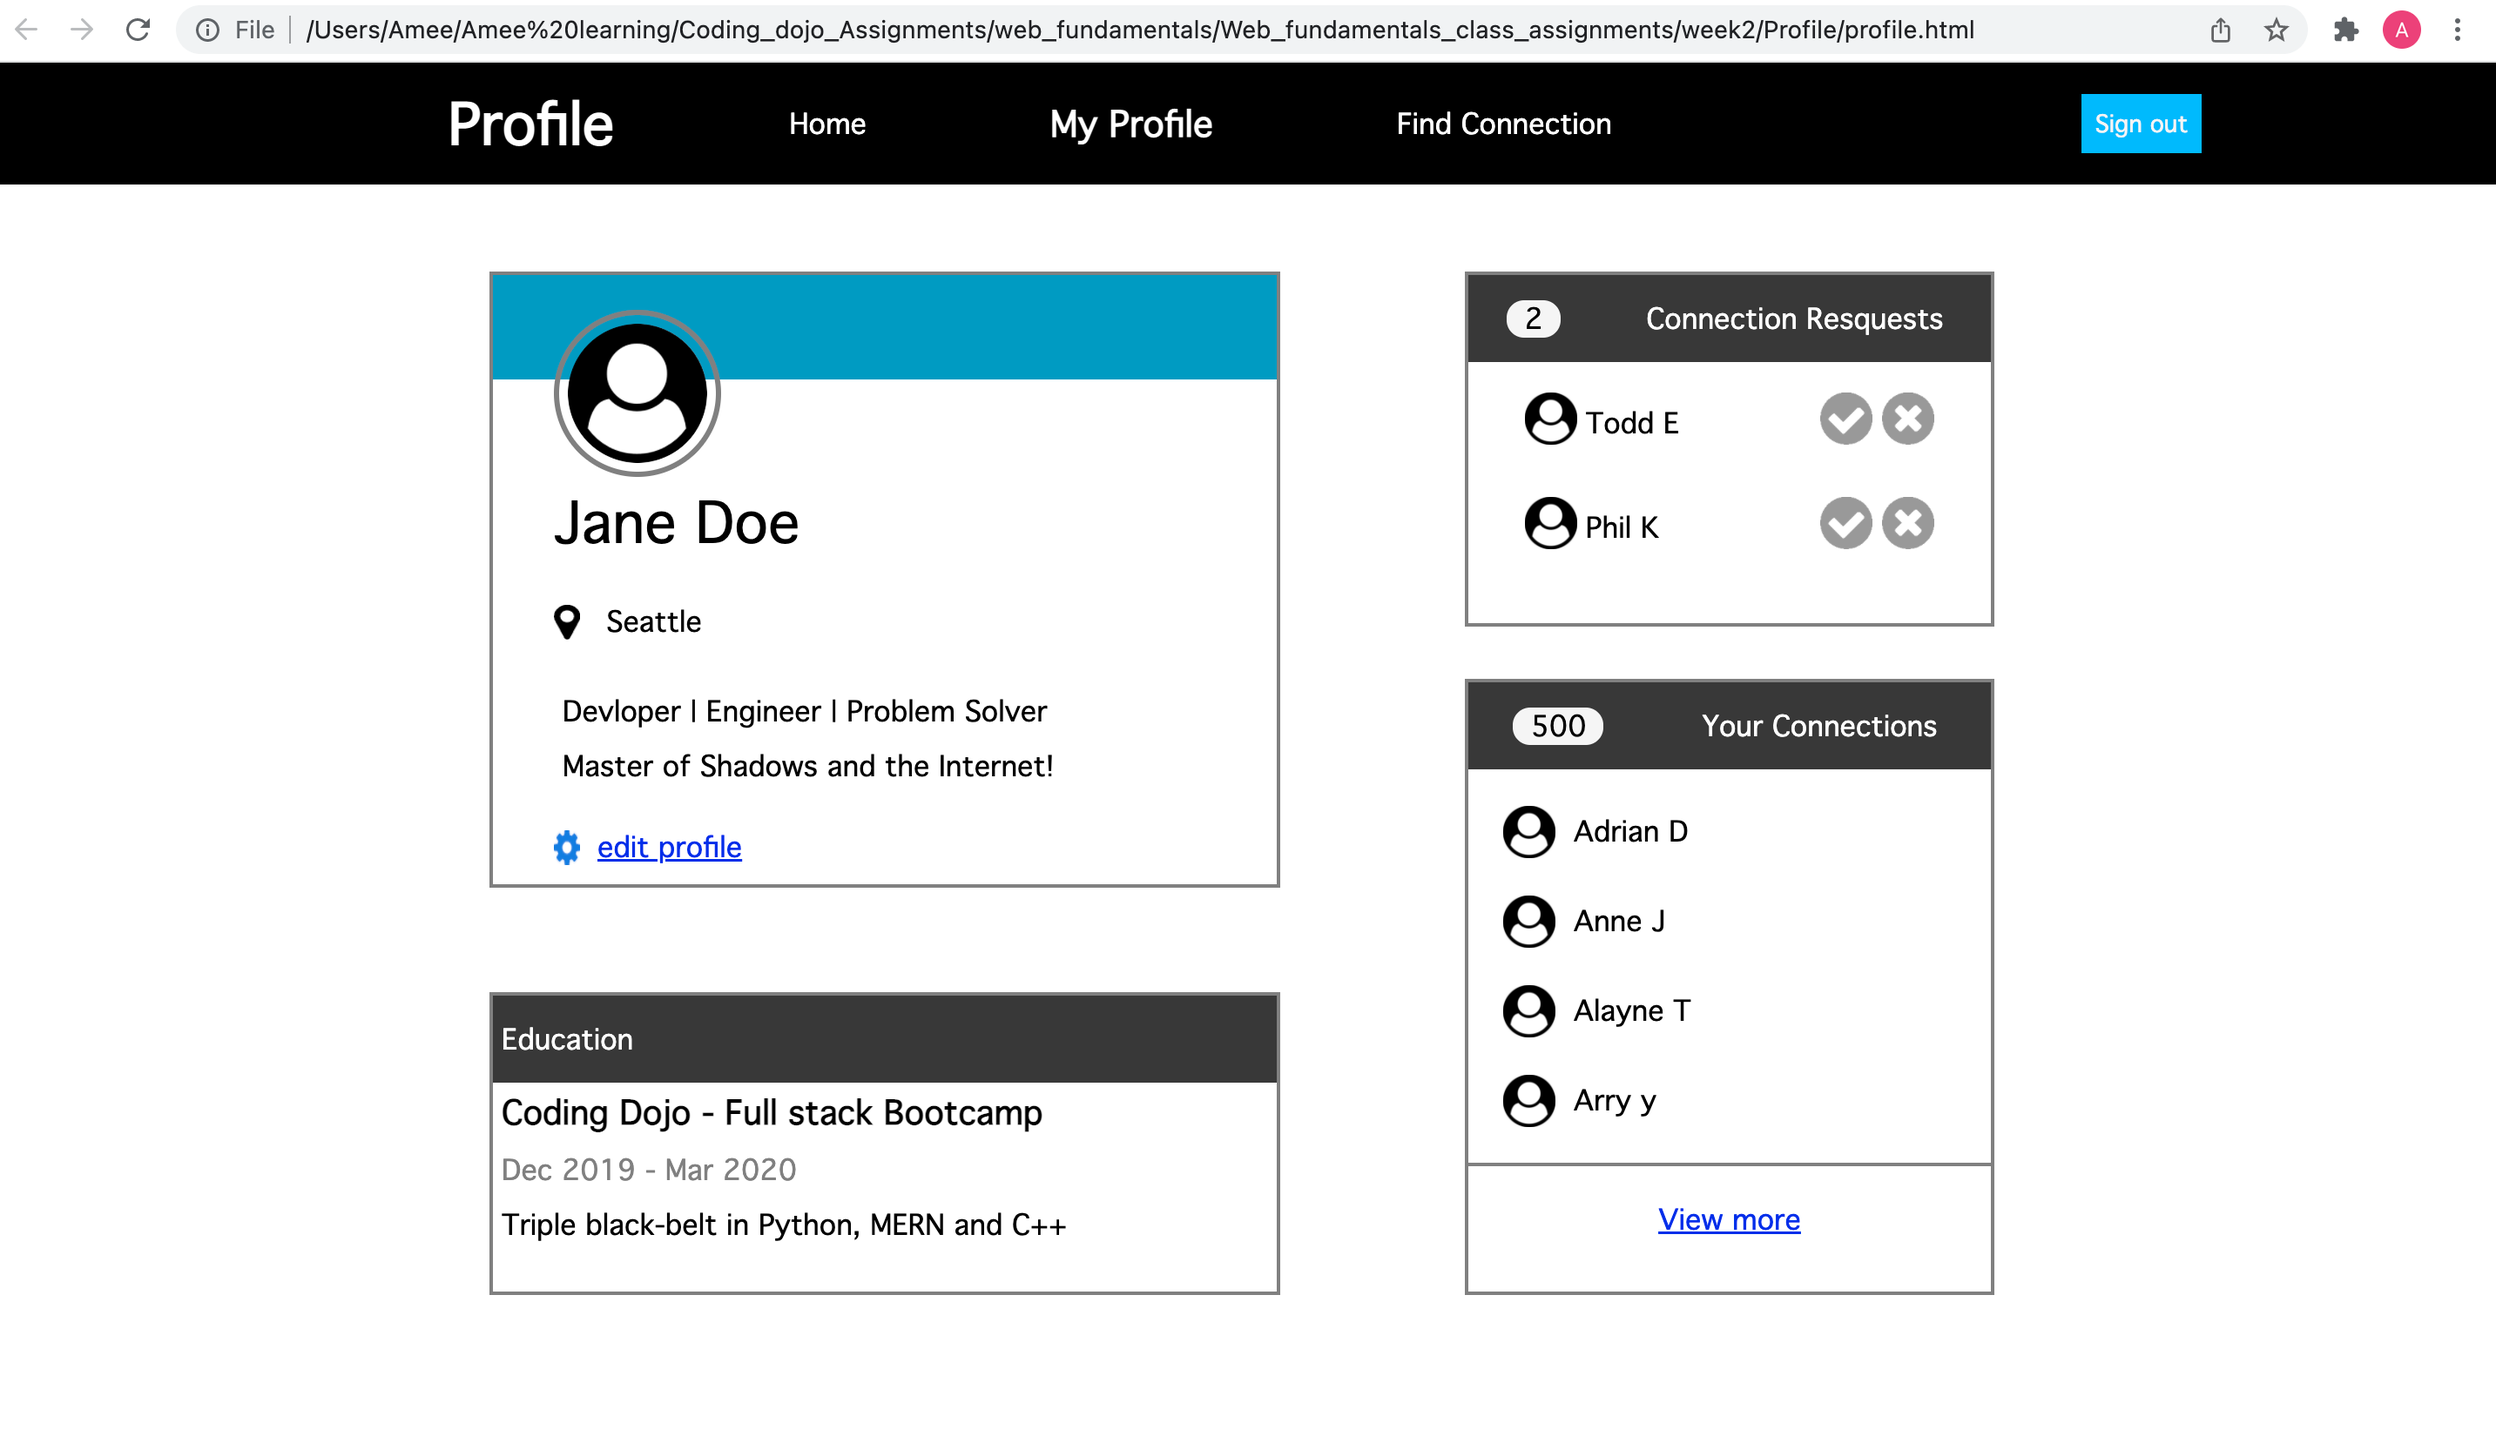
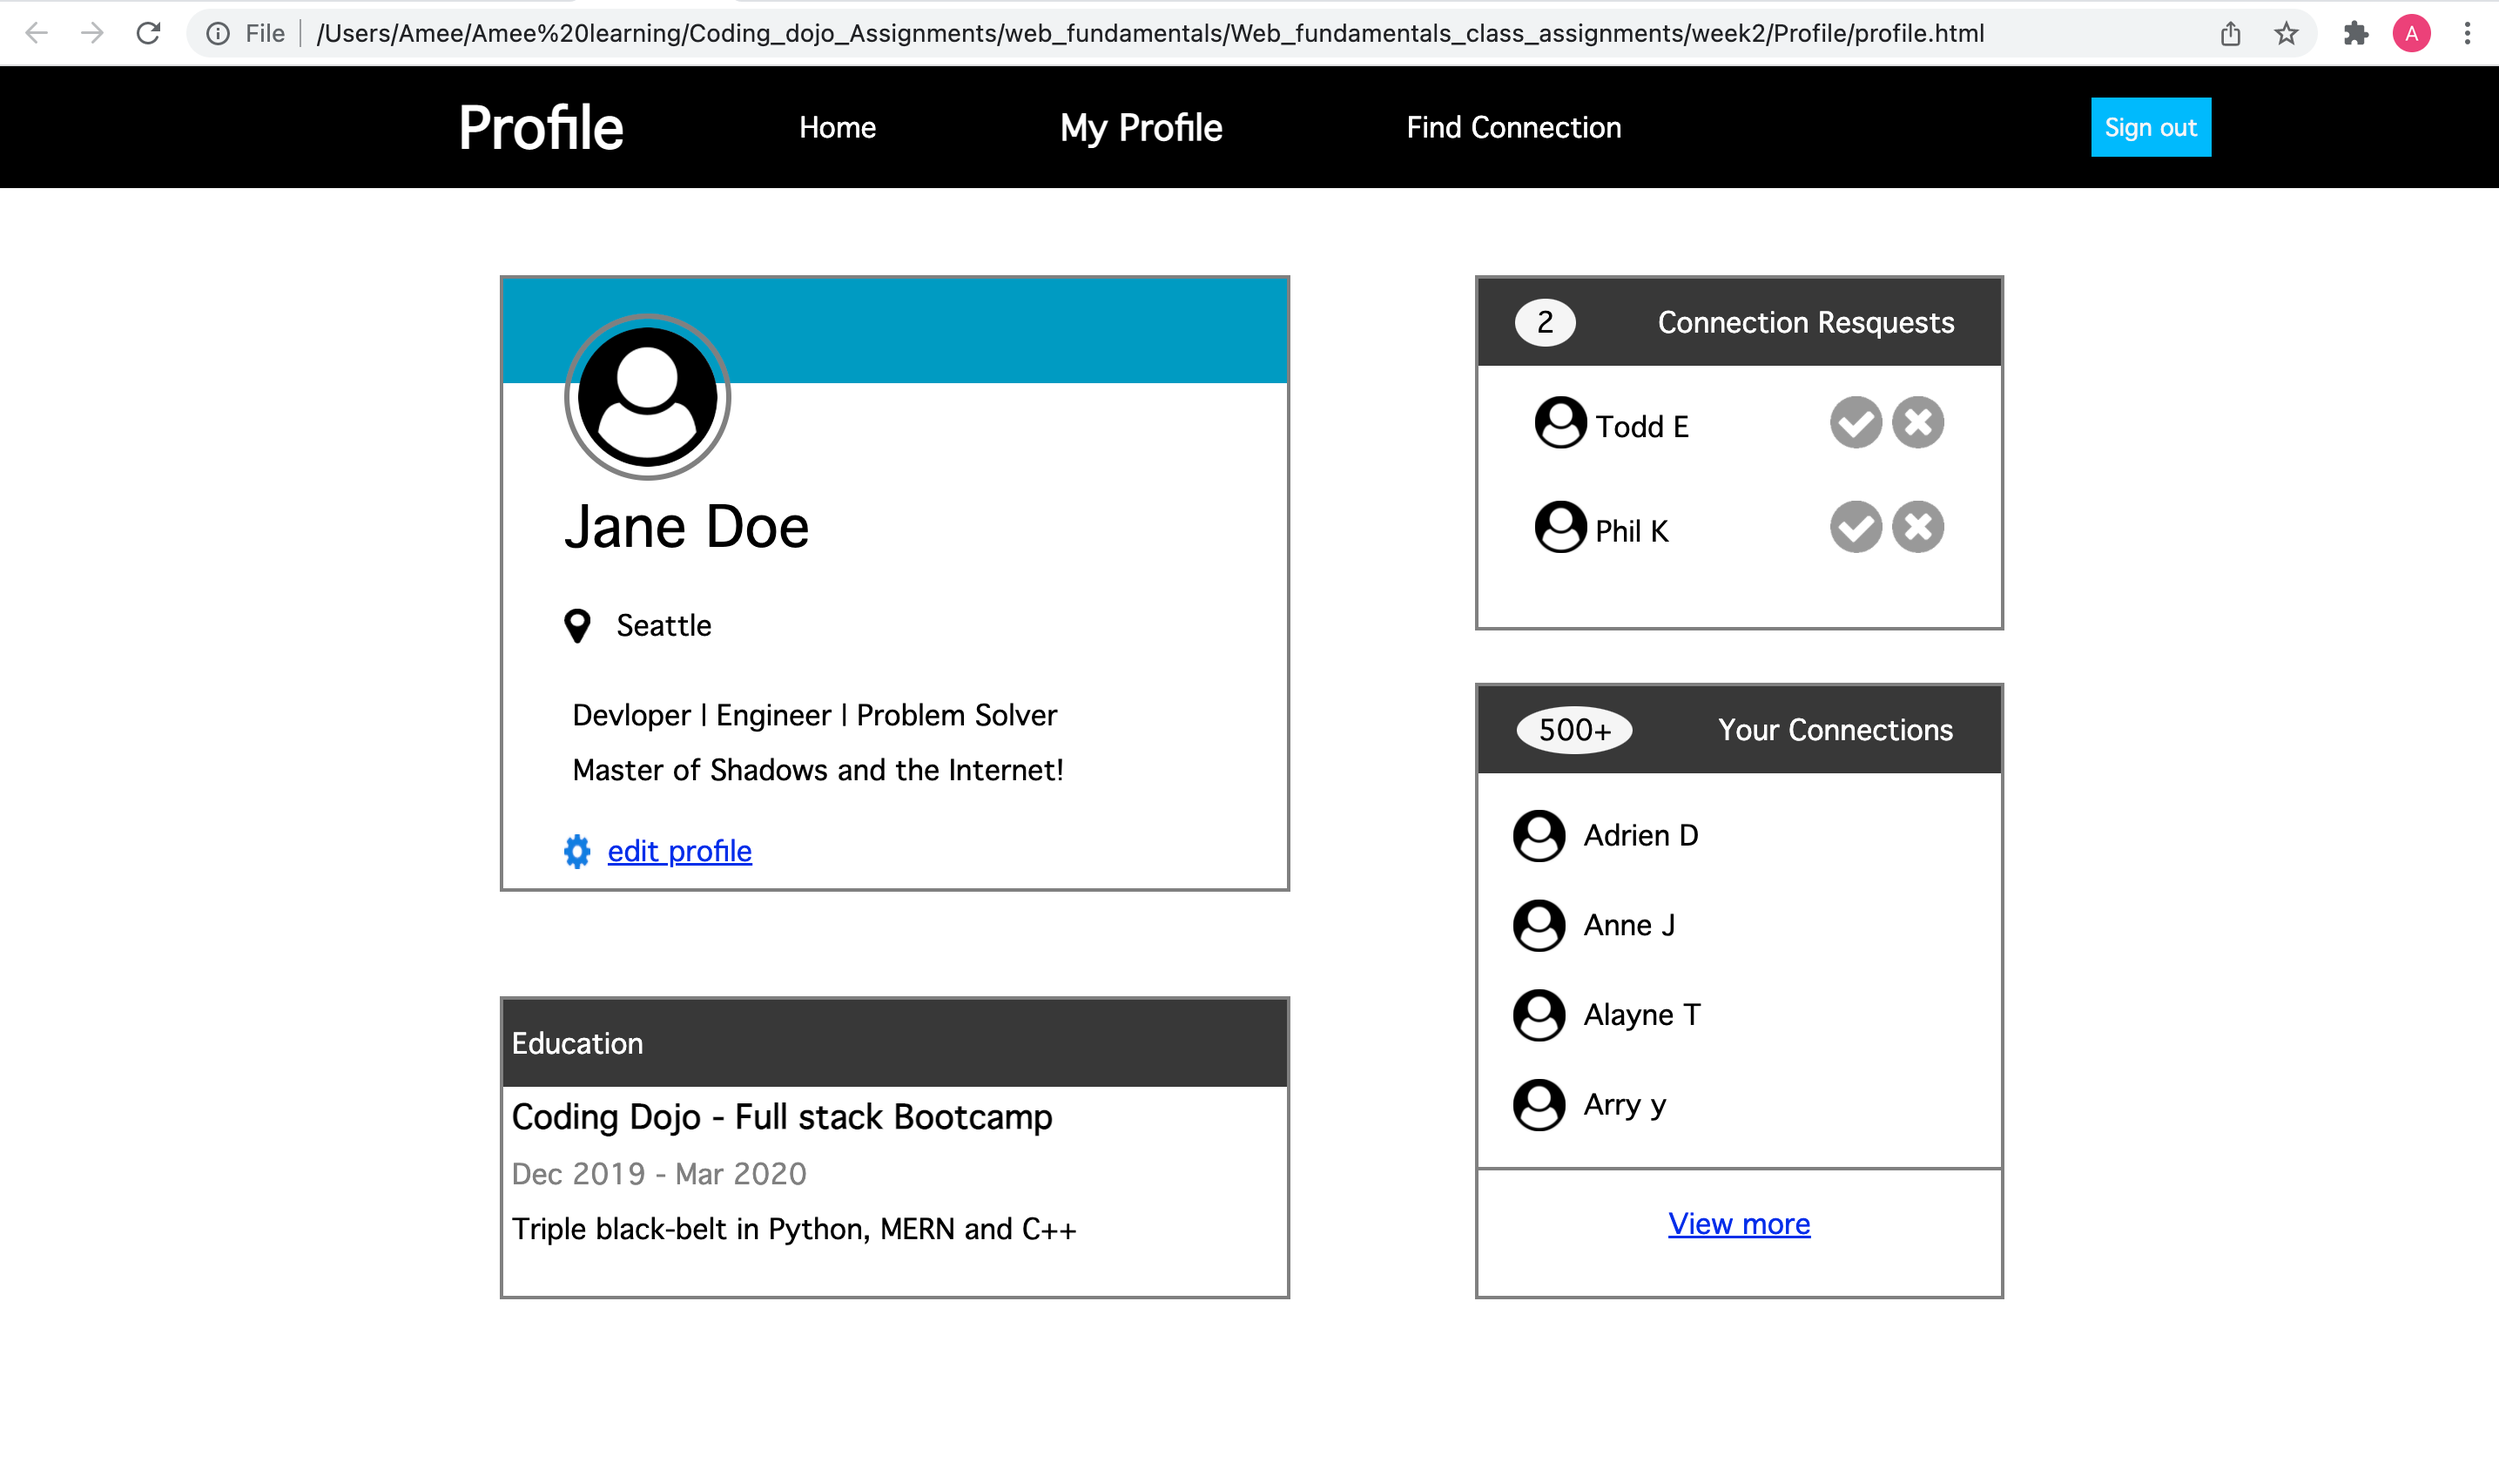
modified files

diff --git a/week2/Profile/profile.html b/week2/Profile/profile.html
@@ -99,13 +99,13 @@
             <div class="box-bottom-right">
                 <!--connection-->
                 <div class="nav-bar">
-                    <p id="num">500</p>
+                    <p id="num">500+</p>
                     <p id="white">Your Connections</p>
                 </div>
                 <div class="box4-content">
                     <div>
                         <img id="icon" src="icons/user-circle.png">
-                        <p>Adrian D</p>
+                        <p>Adrien D</p>
                     </div>
                     <div>
                         <img id="icon" src="icons/user-circle.png">

diff --git a/week2/Profile/style.css b/week2/Profile/style.css
@@ -121,8 +121,8 @@ ul{
 }
 #num {
     background-color:whitesmoke;
-    border-radius: 10px;
-    padding: 0px 10px;
+    border-radius: 60%;
+    padding: 3px 12px;
 }
 .tab-content {
     height: 50px;
